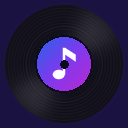
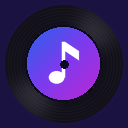
fix(skins): privacidade do ocioso das skins antigas, regra que falha e rótulo do disco maior
- o ocioso das skins que não são a C mostra "Faixa oculta" no lugar do título da última faixa em call privada
- a regra de privacidade que falha ao ser consultada conta como escondido (invoke_np e ocioso)
- rótulo do disco em 60% do lado; DISC_VERSION sobe e o asset sem capa é refeito
- CHANGELOG: linha do tempo escondida em call privada e a correção do ocioso

Changed region(s): [[0.1875, 0.1875, 0.7812, 0.7812]]

diff --git a/tests/utils/test_muse_jukebox.py b/tests/utils/test_muse_jukebox.py
@@ -4,6 +4,7 @@ que nunca recebe embed. Fakes do player com o ``Translator`` real; disco e vaga 
 
 from __future__ import annotations
 
+import asyncio
 import json
 from types import SimpleNamespace
 from unittest.mock import MagicMock
@@ -796,3 +797,36 @@ def test_an_embed_url_with_a_closing_paren_never_opens_a_second_link_in_the_conv
     heading = next(line for line in text.splitlines() if line.startswith("## "))
     assert heading.count("](") == 1 and heading.endswith(")") and ")[" not in heading
     assert shown_text(v2.legacy_to_v2({"embed": disnake.Embed(title="t", url="ftp://x")})).startswith("## t")
+
+
+# ---------------------------------------------------------------------- ocioso das skins antigas e regra que falha
+@pytest.mark.regression
+@pytest.mark.parametrize(("private", "in_call_chat", "hides"), CALL_CHAT_CASES, ids=CALL_CHAT_IDS)
+def test_the_idle_track_title_of_every_skin_follows_the_real_privacy_rule(tr, private, in_call_chat, hides):
+    from empiremuse.utils.music.models.player_playback import idle_track_title
+
+    player = secret_player(tr, private=private, in_call_chat=in_call_chat, static=True)
+    player.played = [SimpleNamespace(title="Faixa Secreta")]
+    assert (idle_track_title(player) == tr("jbx.hidden_track")) is hides
+    assert (idle_track_title(player) == "Faixa Secreta") is not hides
+
+
+@pytest.mark.regression
+def test_a_privacy_rule_that_raises_counts_as_hidden_in_the_idle_and_in_invoke_np(tr, monkeypatch):
+    import empiremuse.utils.jukebox_panel as panel
+    from empiremuse.utils.music.models import player_message
+    from empiremuse.utils.music.models.player_playback import idle_track_title
+
+    def broken(*_a, **_k):
+        raise RuntimeError("regra quebrada")
+
+    monkeypatch.setattr(panel, "player_hides_details", broken)
+    player = secret_player(tr, private=False, in_call_chat=False, static=True)
+    player.played = [SimpleNamespace(title="Faixa Secreta")]
+    assert idle_track_title(player) == tr("jbx.hidden_track")
+    # o invoke_np REAL no ramo do painel em lista: com a regra quebrada o registro de privacidade vira "escondido", sem levantar
+    from unittest.mock import AsyncMock
+
+    fake = SimpleNamespace(static=True, _panel_takes_over=AsyncMock(return_value=True), details_hidden_rendered=None)
+    asyncio.run(player_message.PlayerMessageMixin.invoke_np(fake))
+    assert fake.details_hidden_rendered is True

diff --git a/empiremuse/utils/music/models/player_message.py b/empiremuse/utils/music/models/player_message.py
@@ -9,7 +9,7 @@ from itertools import cycle
 import disnake
 
 from empiremuse.utils.db import DBModel
-from empiremuse.utils.jukebox_panel import player_hides_details
+from empiremuse.utils.jukebox_panel import player_hides_or_unknown
 from empiremuse.utils.music.converters import fix_characters, time_format, get_button_style
 from empiremuse.utils.music.errors import (
     code_suffix,
@@ -54,7 +54,7 @@ def _confirm_rendered(player, req, hidden: bool) -> None:
 class PlayerMessageMixin:
     async def invoke_np(self, force=False, interaction=None, rpc_update=False, panel_render=False):
         if self.static and not panel_render:
-            hidden = player_hides_details(self)
+            hidden = player_hides_or_unknown(self)
             if await self._panel_takes_over(interaction):
                 self.details_hidden_rendered = hidden  # o painel em lista se refez (uma edição do painel por virada)
                 return
@@ -75,7 +75,7 @@ class PlayerMessageMixin:
 
         # a regra vista ANTES do desenho: só vale como "desenhado" depois que a mensagem saiu (se a call mudar durante o
         # desenho, o gatilho de privacidade vê a diferença; se o desenho falhar, o registro anterior fica e o redesenho tenta de novo)
-        hidden = player_hides_details(self)
+        hidden = player_hides_or_unknown(self)
 
         try:
             # chamada pela classe: os dublês dos testes não herdam o mixin

diff --git a/empiremuse/utils/music/models/player_playback.py b/empiremuse/utils/music/models/player_playback.py
@@ -12,6 +12,7 @@ from rapidfuzz import fuzz
 from empiremuse.logs.webhook import minimal_embed, minimal_report_text
 from empiremuse.rules.i18n import fit
 from empiremuse.utils.db import DBModel
+from empiremuse.utils.jukebox_panel import player_hides_or_unknown
 from empiremuse.utils.music import v2
 from empiremuse.utils.music.converters import md_link
 from empiremuse.utils.music.errors import (
@@ -47,6 +48,15 @@ from empiremuse.utils.music.models.playback_steps import (
 )
 from empiremuse.utils.music.models.step_state import ProcessNextState
 from empiremuse.utils.music.app_emojis import emoji as app_emoji
+
+
+def idle_track_title(player) -> str:
+    """O título da última faixa para as opções "voltar" e "relacionadas" do ocioso; em call privada (ou sem saber), "Faixa oculta"."""
+    try:
+        title = player.played[-1].title
+    except Exception:
+        title = player.last_track.title
+    return player.tr("jbx.hidden_track") if player_hides_or_unknown(player) else title
 
 
 class PlayerPlaybackMixin:
@@ -214,10 +224,7 @@ class PlayerPlaybackMixin:
         ]
 
         if (played := len(self.played)) or self.last_track:
-            try:
-                play_txt = self.played[-1].title
-            except Exception:
-                play_txt = self.last_track.title
+            play_txt = idle_track_title(self)
 
             controller_opts.extend(
                 [

diff --git a/empiremuse/utils/jukebox_panel.py b/empiremuse/utils/jukebox_panel.py
@@ -85,6 +85,15 @@ def player_hides_details(player: Any, channel: Any = None) -> bool:
     return not in_call_chat(channel, voice)
 
 
+def player_hides_or_unknown(player: Any, channel: Any = None) -> bool:
+    """``player_hides_details`` que fecha quando a própria regra falha: privacidade desconhecida esconde."""
+    try:
+        return player_hides_details(player, channel)
+    except Exception:  # noqa: BLE001 - sem saber, esconde
+        logger.debug("Regra de privacidade falhou: escondendo", exc_info=True)
+        return True
+
+
 def entry_for(bot: BotCore, player: LavalinkPlayer) -> Optional[PanelEntry]:
     """O bloco do painel para um player conectado; ``None`` se ele não está em call."""
     voice = getattr(getattr(player.guild.me, "voice", None), "channel", None)

diff --git a/empiremuse/utils/render/disc_only.py b/empiremuse/utils/render/disc_only.py
@@ -34,10 +34,10 @@ from empiremuse.utils.render.slot import RenderBusy, RenderSlot, shared_slot
 
 logger = logging.getLogger(__name__)
 
-DISC_VERSION = 1  # sobe quando o desenho do disco muda (invalida o cache num deploy)
+DISC_VERSION = 2  # sobe quando o desenho do disco muda (invalida o cache num deploy)
 DISC_SIDE = 128
 DISC_MARGIN = 5
-LABEL_SIDE = 58
+LABEL_SIDE = 77  # 60% do lado do disco (128 px); o furo e os sulcos acompanham (``record_image``)
 FRAMES = 24
 FRAME_MS = 80  # o GIF mede em centésimos: 75 ms vira 70; 24 × 80 ms = 1,92 s por volta
 GIF_MAX_BYTES = 256 * 1024

diff --git a/empiremuse/utils/music/skins/muse/muse_jukebox.py b/empiremuse/utils/music/skins/muse/muse_jukebox.py
@@ -353,10 +353,9 @@ def _masked(item: Any, text: str, controls: Any) -> Any:
 
 def _hidden_or_unknown(player: Any) -> bool:
     """Esconde se a regra diz que sim e também se ela falha (privacidade desconhecida fecha)."""
-    try:
-        return bool(tx.is_hidden(player))
-    except Exception:  # noqa: BLE001
-        return True
+    from empiremuse.utils.jukebox_panel import player_hides_or_unknown
+
+    return player_hides_or_unknown(player)
 
 
 def idle(player: Any, kwargs: dict) -> dict:

diff --git a/CHANGELOG.md b/CHANGELOG.md
@@ -8,7 +8,7 @@ e este projeto adere ao [Semantic Versioning](https://semver.org/lang/pt-BR/).
 ## [Unreleased]
 
 ### Adicionado
-- Jukebox "C" (`muse_jukebox`, nova skin padrão do player nos dois modos): o player em Components V2 nativo, sem cartão de imagem, com o disco girando na miniatura (GIF de 24 quadros; a pausa e o movimento desligado mostram o PNG parado; sem capa, em call privada e na rádio, o rótulo em degradê com uma nota). Mostra estado, título (link), artista, quem pediu ou "Recomendada", linha do tempo com `m:ss`, "A seguir" ou "Recomendadas", a última ação e os mesmos controles de antes; a rádio ao vivo usa o logo da estação. Em call privada fora do chat da própria call nada da faixa sai em nenhum campo. O ocioso (do player e do canal da Jukebox) também é V2. Toda edição de uma mensagem V2 passa por um adaptador (`utils/music/v2.py`) e nunca leva embed; trocar de uma skin V1 para a C edita a mensagem e o caminho contrário envia a nova antes de apagar a velha. As oito skins de imagem da Jukebox (`muse_expanded_*`, `muse_slim_*`, `muse_radio_*`, `muse_radio_portrait_*`) viram apelidos de leitura da C e `portrait_black`/`portrait_white` da rádio, de `black`/`white`; nada é regravado no banco. A linha "Dica:" saiu das skins de texto e o tempo decorrido da Jukebox Texto passa a `m:ss`.
+- Jukebox "C" (`muse_jukebox`, nova skin padrão do player nos dois modos): o player em Components V2 nativo, sem cartão de imagem, com o disco girando na miniatura (GIF de 24 quadros; a pausa e o movimento desligado mostram o PNG parado; sem capa, em call privada e na rádio, o rótulo em degradê com uma nota). Mostra estado, título (link), artista, quem pediu ou "Recomendada", linha do tempo com `m:ss`, "A seguir" ou "Recomendadas", a última ação e os mesmos controles de antes; a rádio ao vivo usa o logo da estação. Em call privada fora do chat da própria call nada da faixa sai em nenhum campo, e a linha do tempo (posição, duração e "termina") também não aparece: isso é mais restrito que o desenho aprovado e foi decidido assim. O rótulo do disco ocupa 60% do lado. O ocioso (do player e do canal da Jukebox) também é V2. Toda edição de uma mensagem V2 passa por um adaptador (`utils/music/v2.py`) e nunca leva embed; trocar de uma skin V1 para a C edita a mensagem e o caminho contrário envia a nova antes de apagar a velha. As oito skins de imagem da Jukebox (`muse_expanded_*`, `muse_slim_*`, `muse_radio_*`, `muse_radio_portrait_*`) viram apelidos de leitura da C e `portrait_black`/`portrait_white` da rádio, de `black`/`white`; nada é regravado no banco. A linha "Dica:" saiu das skins de texto e o tempo decorrido da Jukebox Texto passa a `m:ss`.
 - Skins 2.3, rádio 24 h: o painel da rádio desenha a skin efetiva: a da própria rádio, senão a escolhida para todas as rádios do servidor, senão a Rádio Texto. O Retrato (`portrait_black` e `portrait_white`, `utils/render/cards/radio_portrait.py`) é o visor na vertical, 960×1680, com até 4 estações em "A seguir"; `black` e `white` continuam o visor de antes. Com o banco fora, vale a skin da rádio ou o padrão. Uma rádio que nunca escolheu skin (o antigo padrão preto) passa a sair na Rádio Texto; a branca continua branca. A Rádio Retrato da Jukebox (`muse_radio_portrait_black` e `_white`) passa a carregar e usa o mesmo desenho do Retrato, em 480×840, com até 4 faixas em "A seguir" e as regras de call privada da Jukebox. O texto de fora no visor e no Retrato não desenha caracteres que a fonte do visor não tem (emoji, ideogramas), e o Retrato mostra os nomes das estações ao vivo sem a barra de escape. O painel da rádio personalizada que saiu sem a imagem, com a vaga de desenho ocupada, tenta de novo depois de 5 s (até 2 vezes), e um pedido de redesenho que chega durante uma edição não se perde. O painel da personalizada também se refaz depois de uma escolha no menu ou no `/skins`, no máximo uma vez a cada 15 s, como o da ao vivo.
 - Skins 2.3, Rádio Texto v2 (S7): a skin `text` da rádio sai em texto, irmã da Jukebox Texto v2: autor com o estado, a estação e a música, chips (posição, taxa, qualidade com cor e palavra, volume), filtro, favorita e reserva, "Tocou há pouco" e "A seguir", com os mesmos controles do visor e o logo da estação. O painel da rádio escolhe o formato pela skin efetiva: texto sem a vaga de render; as de imagem com o desenho de cada skin no mesmo anexo e na mesma vaga. Textos `radio.text.*` em pt-BR e en-US.
 - Skins 2.3, o `/skins` (S6): substitui o `/skin` (o comando de prefixo continua com `skin` e `skins`). Uma mensagem só para quem a abriu, com a prévia da skin escolhida (a imagem conceitual aprovada, com o rodapé "Imagem conceitual", em `assets/skins/`) e os selects do player no modo normal e no canal da Jukebox (primeiro as skins do EmpireMuse, depois as Clássicas), o par das rádios ("Todas as rádios" ou uma rádio do servidor, e a skin dela, com "Usar a de todas as rádios"), e os botões Global, Animação do disco, Personalizadas (numa mensagem à parte, com páginas), Salvar e Cancelar. Nada é gravado antes do Salvar; o Salvar confere de novo a permissão e as listas e grava só o que mudou; se uma rádio mudou nesse meio tempo, as outras ficam gravadas e a resposta diz qual não foi. O par das rádios só aparece para quem pode configurar rádio, e só no `/skins` de barra (pelo comando de prefixo a tela abre sem ele). Depois do tempo da tela, nada nela volta a funcionar, nem a mensagem das personalizadas. O padrão do player (nos dois modos) é a Jukebox Texto e o das rádios é a Rádio Texto: num servidor que nunca escolheu (ou que só tem o `default` gravado pelo `/skin` antigo) a tela abre com a prévia da Jukebox Texto e o select do player marca "Padrão" na descrição dela. Textos em pt-BR e en-US.
@@ -30,6 +30,7 @@ e este projeto adere ao [Semantic Versioning](https://semver.org/lang/pt-BR/).
 - Processo do bot endurecido na subida: no Linux ele é marcado como não despejável (`prctl(PR_SET_DUMPABLE, 0)`, `empiremuse/process_hardening.py`), antes de abrir qualquer processo filho. Fora do Linux não faz nada. O resultado sai no relatório de subida (etapa `Processo`: ok, ou aviso se a marcação falhar). Na operação, no Linux e com a marcação aplicada: o processo do bot não gera core dump, e anexar um depurador ou profiler a ele passa a exigir privilégio elevado.
 
 ### Corrigido
+- Privacidade: o ocioso das skins que não são a Jukebox C (as de texto, de imagem e as Clássicas) mostrava o título da última faixa nas opções "Voltar" e "Tocar músicas relacionadas" numa call privada; agora mostra "Faixa oculta (call privada)". Quando a própria regra de privacidade falha ao ser consultada, o player conta como escondido.
 - Player: pausar mostrava a posição velha (0:00) porque a posição pausada só lia a última atualização do nó; agora a posição real é congelada ao pausar e retomada dali.
 - Player: a sessão retomada depois de um reinício nascia com o estado de voz `None`, os eventos de voz do `connect` falhavam (`AttributeError`) e a faixa ficava parada em 0:00; agora o estado nasce vazio. Uma sessão retomada segue a skin que o servidor escolheu hoje, não a gravada na sessão.
 - Jukebox: o aviso de sistema "fixou uma mensagem" que o Discord posta a cada troca de player fixado é apagado logo depois (com a permissão de gerenciar mensagens).
